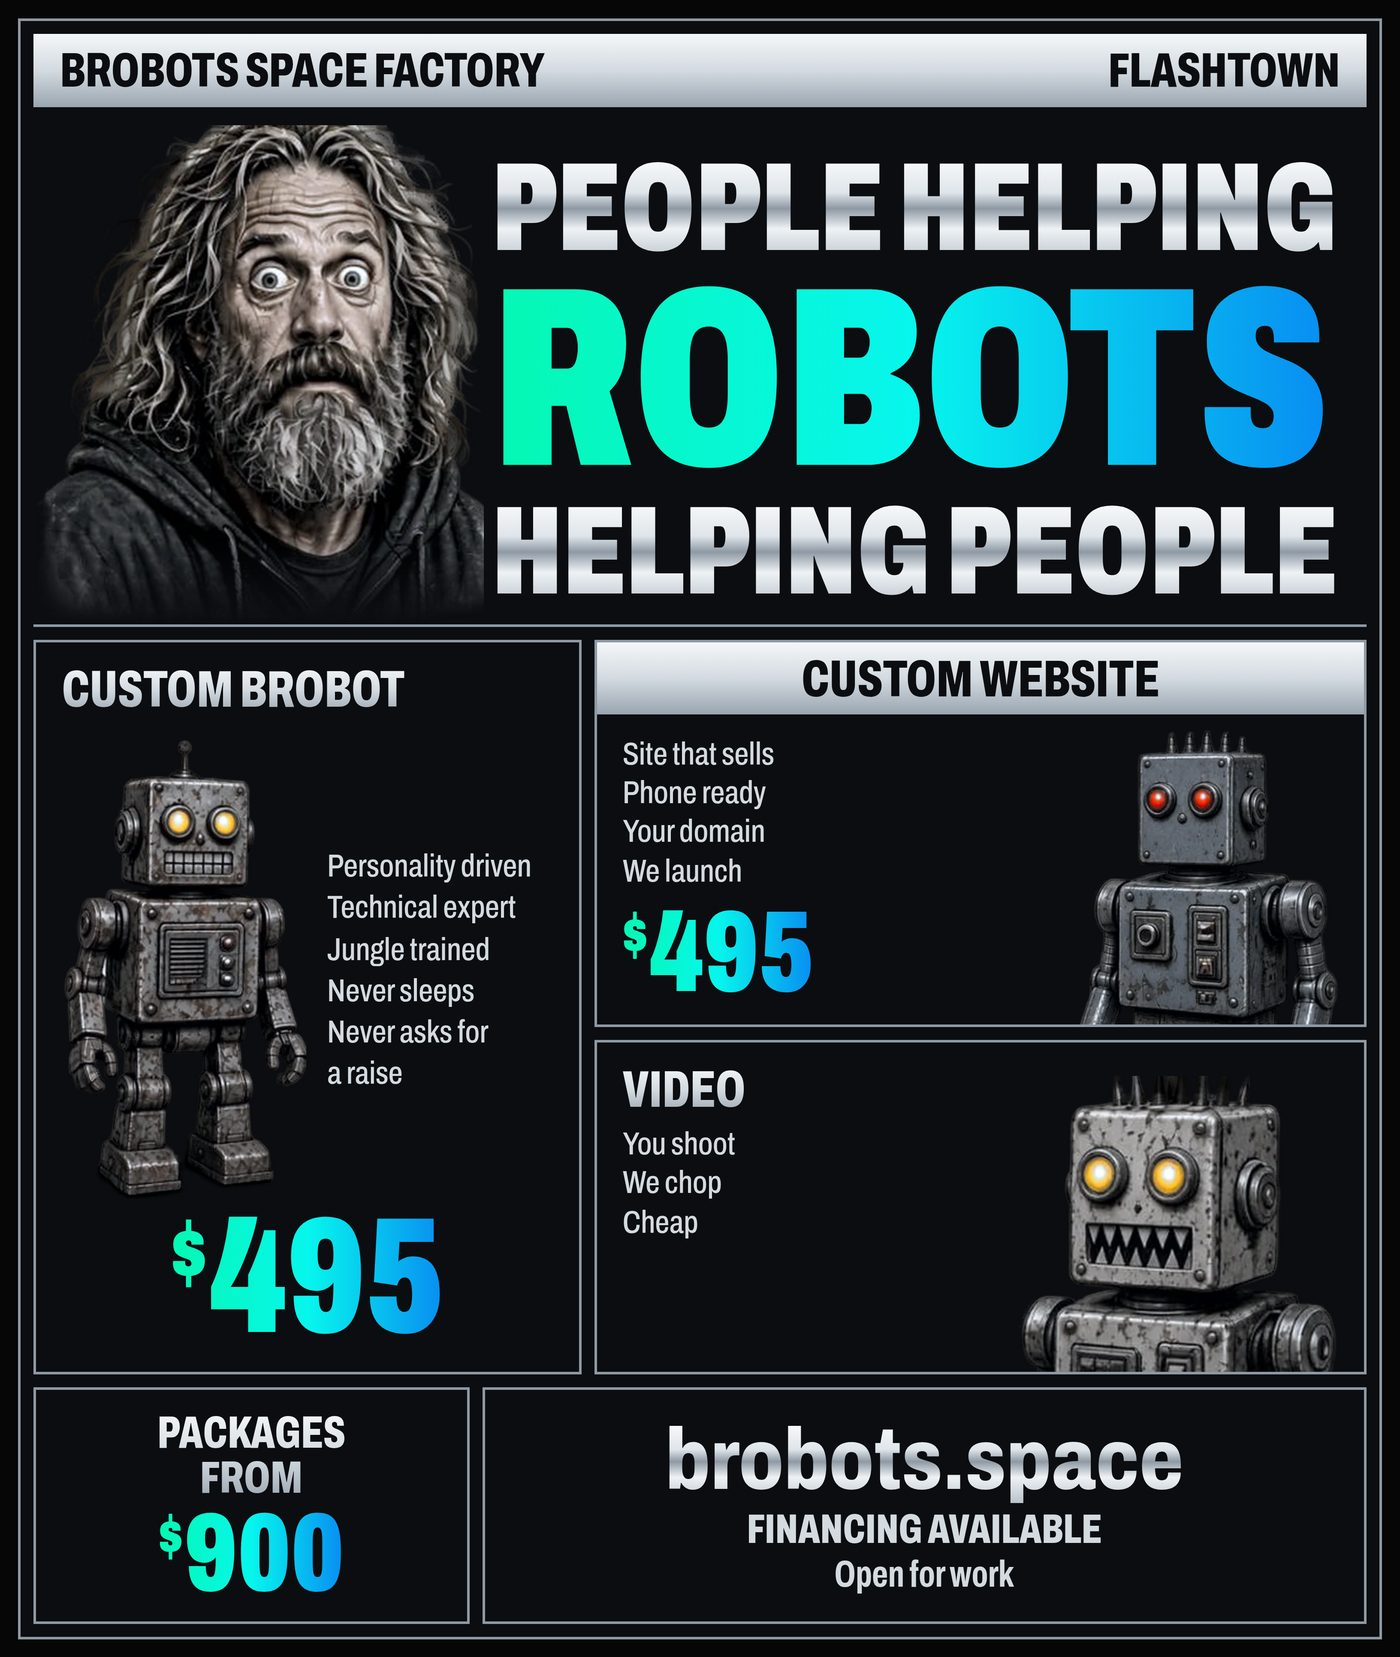
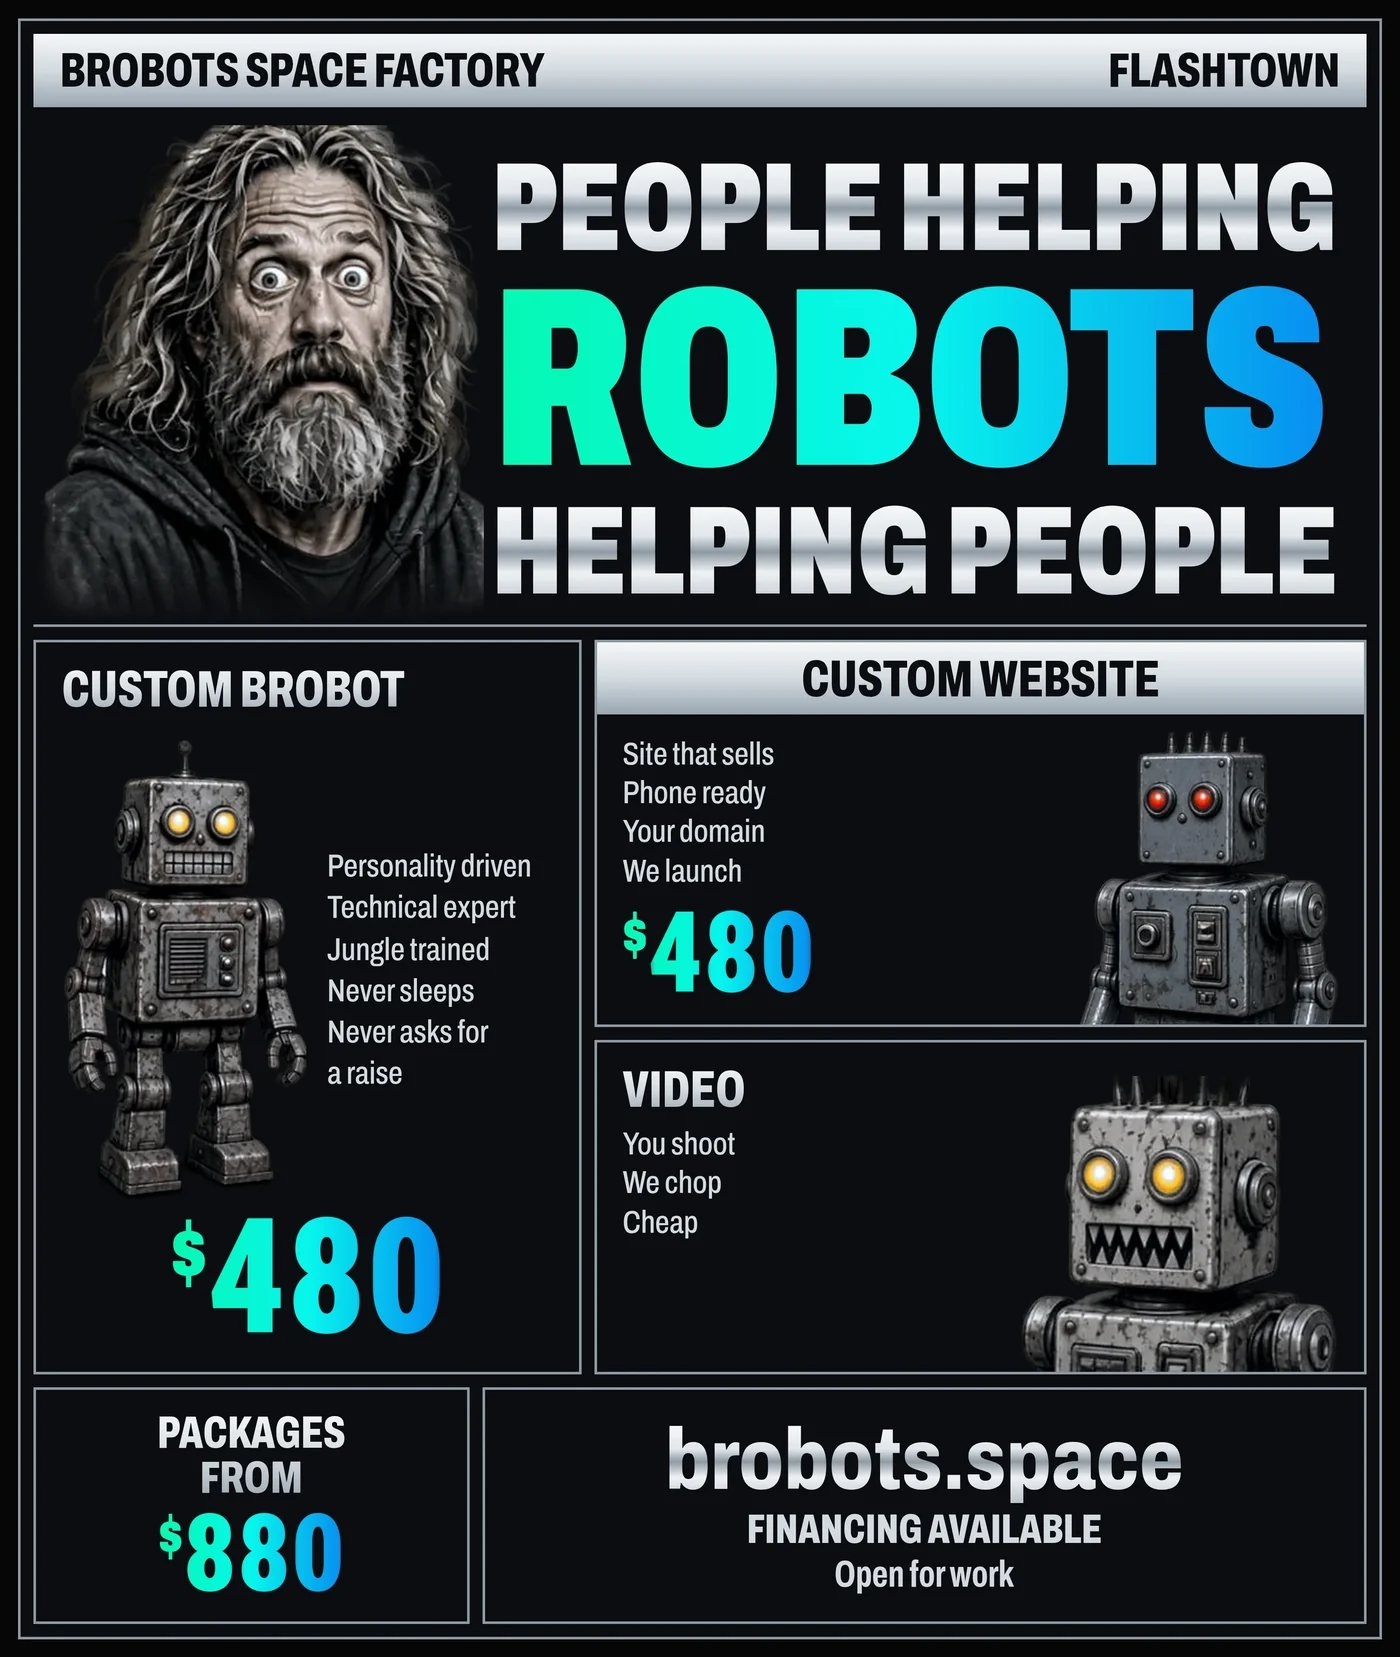
Homepage flyer: $480, $480, packages from $880 (800/1400/2400 webp + 1400 jpg), cache-bust, alt text

Changed region(s): [[0.1536, 0.7387, 0.3379, 0.8002], [0.4607, 0.554, 0.5836, 0.6156], [0.1229, 0.9234, 0.2457, 0.9541]]

diff --git a/index.html b/index.html
@@ -142,8 +142,8 @@
 </div></section>
 <figure class="ink-plate factory-circular">
  <a href="#talk"><picture style="display:block;max-width:1120px;margin:0 auto">
-  <source type="image/webp" srcset="media/factory-circular-chrome-800.webp 800w, media/factory-circular-chrome-1400.webp 1400w, media/factory-circular-chrome-2400.webp 2400w" sizes="(min-width: 2400px) 1200px, (min-width: 1180px) 1120px, calc(100vw - 16px)">
-  <img src="media/factory-circular-chrome-1400.jpg" width="1400" height="1657" style="display:block;width:100%;height:auto" sizes="(min-width: 2400px) 1200px, (min-width: 1180px) 1120px, calc(100vw - 16px)" loading="lazy" decoding="async" alt="Brobots Space Factory · FLASHTOWN. People helping ROBOTS helping people. Custom BroBot: personality driven, technical expert, jungle trained, never sleeps, never asks for a raise: $480. Custom website: site that sells, phone ready, your domain, we launch: $480. Video: you shoot, we chop, cheap. Website tiers $480 to $4,980. brobots.space. Financing available. Open for work.">
+  <source type="image/webp" srcset="media/factory-circular-chrome-800.webp?v=480 800w, media/factory-circular-chrome-1400.webp?v=480 1400w, media/factory-circular-chrome-2400.webp?v=480 2400w" sizes="(min-width: 2400px) 1200px, (min-width: 1180px) 1120px, calc(100vw - 16px)">
+  <img src="media/factory-circular-chrome-1400.jpg?v=480" width="1400" height="1657" style="display:block;width:100%;height:auto" sizes="(min-width: 2400px) 1200px, (min-width: 1180px) 1120px, calc(100vw - 16px)" loading="lazy" decoding="async" alt="Brobots Space Factory · FLASHTOWN. People helping ROBOTS helping people. Custom BroBot: personality driven, technical expert, jungle trained, never sleeps, never asks for a raise: $480. Custom website: site that sells, phone ready, your domain, we launch: $480. Video: you shoot, we chop, cheap. Packages from $880. brobots.space. Financing available. Open for work.">
  </picture></a>
 </figure>
 <section class="sec tutor" id="tutor" aria-labelledby="tutor-h">
